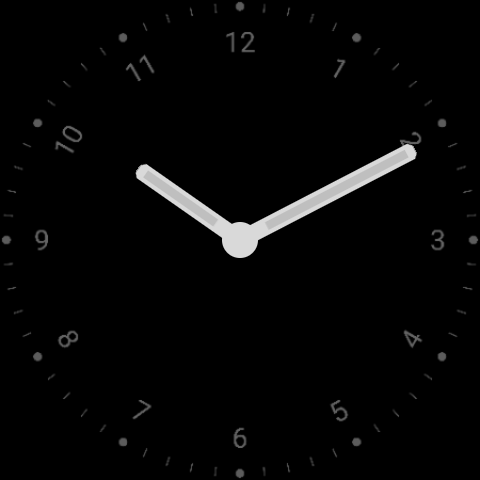
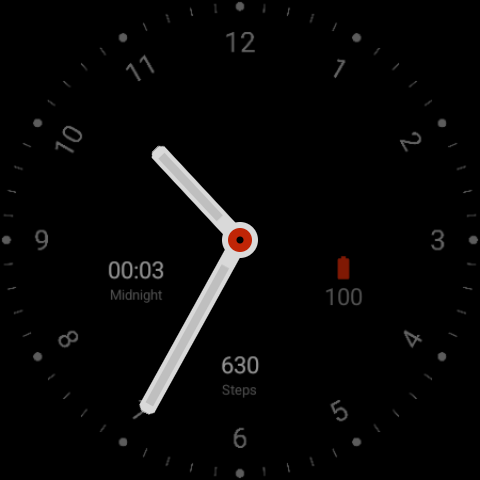
feat: weather default; complications and red cap stay in always-on; left slot centred; README
Owner feedback from the real watch: complications and the red centre dot must stay visible in
always-on mode (complications dimmed to alpha 170, red cap unchanged because dimming blended it
into the white ring), and the left slot block is moved up to line up with the right slot.
Spec amended accordingly. Weather default is Samsung's WeatherComplicationService.

diff --git a/tools/build_face.py b/tools/build_face.py
@@ -22,6 +22,10 @@ RED = "#ffe22b07"
 WHITE = "#ffffffff"
 GREY = "#ff8c8c8c"
 
+# Ambient (always-on) brightness of the complications; the red cap is drawn unchanged
+# (dimming it with alpha blends the red into the white ring and turns it pink).
+AMBIENT_SLOT_ALPHA = 170
+
 
 def n(v: float) -> str:
     """Format a coordinate: at most 2 decimals, no trailing zeros."""
@@ -40,12 +44,17 @@ EMPTY_POLICY = '<DefaultProviderPolicy defaultSystemProvider="EMPTY" defaultSyst
 PRAYER_COMPONENT = ("com.seyedjafari.prayertimes/"
                     "com.seyedjafari.prayertimes.wear.complication.NextPrayerComplicationService")
 
+WEATHER_COMPONENT = ("com.samsung.android.watch.weather/"
+                     "com.samsung.android.watch.weather.complication.WeatherComplicationService")
+
 SLOTS = [
-    Slot(0, "top", 150, 106, 150, 76, WHITE, WHITE, EMPTY_POLICY),
+    Slot(0, "top", 150, 106, 150, 76, WHITE, WHITE,
+         f'<DefaultProviderPolicy primaryProvider="{WEATHER_COMPONENT}" primaryProviderType="SHORT_TEXT" '
+         'defaultSystemProvider="EMPTY" defaultSystemProviderType="EMPTY"/>'),
     Slot(1, "right", 277, 236, 90, 76, RED, GREY,
          '<DefaultProviderPolicy defaultSystemProvider="WATCH_BATTERY" '
          'defaultSystemProviderType="SHORT_TEXT"/>'),
-    Slot(2, "left", 83, 236, 90, 76, WHITE, WHITE,
+    Slot(2, "left", 83, 211, 90, 76, WHITE, WHITE,
          f'<DefaultProviderPolicy primaryProvider="{PRAYER_COMPONENT}" primaryProviderType="SHORT_TEXT" '
          'defaultSystemProvider="EMPTY" defaultSystemProviderType="EMPTY"/>'),
     Slot(3, "bottom", 175, 300, 100, 76, WHITE, WHITE,
@@ -86,7 +95,7 @@ def _slot_xml(slot: Slot) -> str:
     return f"""    <ComplicationSlot slotId="{slot.slot_id}" name="{slot.name}" isCustomizable="TRUE"
         supportedTypes="SHORT_TEXT RANGED_VALUE MONOCHROMATIC_IMAGE SMALL_IMAGE EMPTY"
         x="{n(slot.x)}" y="{n(slot.y)}" width="{n(slot.w)}" height="{n(slot.h)}">
-      <Variant mode="AMBIENT" target="alpha" value="0"/>
+      <Variant mode="AMBIENT" target="alpha" value="{AMBIENT_SLOT_ALPHA}"/>
       {slot.policy}
       <BoundingBox x="0" y="0" width="{n(slot.w)}" height="{n(slot.h)}"/>
       <Complication type="SHORT_TEXT">
@@ -157,7 +166,6 @@ def build(all_empty: bool = False) -> str:
     <PartDraw name="cap_ring" x="0" y="0" width="{SPACE}" height="{SPACE}">
 {ring}    </PartDraw>
     <PartDraw name="cap_core" x="0" y="0" width="{SPACE}" height="{SPACE}">
-      <Variant mode="AMBIENT" target="alpha" value="0"/>
 {core}    </PartDraw>
   </Scene>
 </WatchFace>

diff --git a/tests/test_face.py b/tests/test_face.py
@@ -66,10 +66,16 @@ class SlotTest(unittest.TestCase):
                 apart = ax + aw <= bx or bx + bw <= ax or ay + ah <= by or by + bh <= ay
                 self.assertTrue(apart, f"slots {ida} and {idb} overlap")
 
-    def test_slots_are_hidden_in_ambient_mode(self):
+    def test_slots_stay_visible_but_dimmed_in_ambient_mode(self):
         for s in _slots():
             variants = [(v.get("mode"), v.get("target"), v.get("value")) for v in s.findall("Variant")]
-            self.assertIn(("AMBIENT", "alpha", "0"), variants, f"slot {s.get('slotId')}")
+            self.assertIn(("AMBIENT", "alpha", str(bf.AMBIENT_SLOT_ALPHA)), variants,
+                          f"slot {s.get('slotId')}")
+            self.assertNotIn(("AMBIENT", "alpha", "0"), variants, f"slot {s.get('slotId')} hidden")
+
+    def test_red_cap_is_drawn_unchanged_in_ambient_mode(self):
+        core = next(p for p in _root().iter("PartDraw") if p.get("name") == "cap_core")
+        self.assertEqual(core.findall("Variant"), [], "a variant would dim or hide the red cap")
 
     def test_all_complication_text_shrinks_to_fit_and_ellipsises(self):
         texts = [t for s in _slots() for t in s.iter("Text")]
@@ -77,6 +83,11 @@ class SlotTest(unittest.TestCase):
         for t in texts:
             self.assertEqual(t.get("isAutoSize"), "TRUE")
             self.assertEqual(t.get("ellipsis"), "TRUE")
+
+    def test_top_slot_prefers_weather_and_falls_back_to_empty(self):
+        policy = _slots()[0].find("DefaultProviderPolicy")
+        self.assertEqual(policy.get("primaryProvider"), bf.WEATHER_COMPONENT)
+        self.assertEqual(policy.get("defaultSystemProvider"), "EMPTY")
 
     def test_prayer_slot_prefers_the_prayer_app_and_falls_back_to_empty(self):
         policy = _slots()[2].find("DefaultProviderPolicy")

diff --git a/README.md b/README.md
@@ -1,0 +1,65 @@
+# Analog Plus — Wear OS watch face
+
+A Wear OS watch face that looks like Samsung's stock analog face, with **four** complication slots
+instead of two, and every slot hideable. It is a code-free
+[Watch Face Format](https://developer.android.com/training/wearables/wff) v3 app: XML plus PNG
+images, no Kotlin or Java.
+
+| Original (reference) | This face on the Galaxy Watch |
+|---|---|
+| ![original](docs/reference/original-watchface.png) | ![real watch](docs/screenshots/galaxy-watch-real.png) |
+
+## Complication slots
+
+| Slot | Default | If that provider is missing |
+|---|---|---|
+| Top | Samsung Weather (`com.samsung.android.watch.weather`) | Empty |
+| Right | Watch battery (system provider) | always available |
+| Left | Next prayer from the `com.seyedjafari.prayertimes` Wear app | Empty (blank, no error) |
+| Bottom | Step count (system provider) | always available |
+
+Weather: Samsung's weather complication exists on the watch, so it is the top slot's default. On a
+watch without it, pick weather once in the editor.
+
+**Hide a slot:** long-press the face, tap *Customize*, pick the slot, choose *Empty*. An empty slot
+draws nothing. With all four empty the face is a plain analog dial. Defaults are only starting points:
+any slot can show any provider (short text, ranged value, icon, small image).
+
+**Always-on mode:** the dial and hands dim, the second hand is hidden, and the complications stay
+visible, dimmed. The red centre disc is drawn unchanged.
+
+## Requirements
+
+Wear OS 5.1 (API 35) or later, because auto-sizing complication text needs Watch Face Format v3.
+Package: `com.seyedjafari.analogwatchface`.
+
+## Build and install
+
+```bash
+pip3 install -r requirements.txt     # Pillow, for the image generator only
+./gradlew assembleDebug              # app/build/outputs/apk/debug/app-debug.apk
+scripts/install.sh <adb-serial>      # build, install, activate (emulators)
+```
+
+On a real Samsung watch the activation broadcast is ignored: after installing, long-press the
+current face and pick *Analog Plus*. Pair the watch for installs with Wireless debugging, as described
+in the `prayertime-widgets` README. Note that `adb install -r` keeps the saved complication choices:
+run `adb uninstall com.seyedjafari.analogwatchface` first to see a variant's real defaults.
+
+## Changing the design
+
+All geometry lives in two generators, so images and XML cannot drift apart:
+
+- `tools/gen_assets.py`: dial and hand PNGs (measured from `docs/reference/original-watchface.png`).
+- `tools/build_face.py`: `app/src/main/res/raw/watchface.xml`. Slot boxes are in the face's
+  450 x 450 space; `--all-empty` writes a variant with every default removed.
+
+After editing, run both generators, then `python3 -m unittest discover -s tests` and
+`scripts/validate.sh` (Google's `wff-validator`, downloaded into `tools/bin` on first use).
+
+## Emulator matrix
+
+`scripts/create_avds.sh` creates small round, square and rectangular Wear OS 6 AVDs next to the
+existing `GalaxyWatch7_API36` (large round). `scripts/avd_shot.sh <avd> <even-port>` boots one
+headless, installs the face and saves `docs/screenshots/<avd>.png`. The committed captures also
+include `all-slots-hidden.png` and `ambient.png`.

diff --git a/docs/superpowers/specs/2026-10-02-analog-watchface-design.md b/docs/superpowers/specs/2026-10-02-analog-watchface-design.md
@@ -94,7 +94,7 @@ format's 450-unit space:
 |---|---|---|---|---|
 | Top | 50 / 32 | 150, 106, 150, 76 | Weather (see open items) | Empty |
 | Right | 72 / 61 | 277, 236, 90, 76 | Battery (red icon, grey text) | System battery provider |
-| Left | 28 / 61 | 83, 236, 90, 76 | Next prayer (`com.seyedjafari.prayertimes` `NextPrayerComplicationService`) | Empty |
+| Left | 28 / 55 | 83, 211, 90, 76 | Next prayer (`com.seyedjafari.prayertimes` `NextPrayerComplicationService`) | Empty |
 | Bottom | 50 / 75 | 175, 300, 100, 76 | Step count | System step provider |
 
 - Supported types: short text, ranged value and small image, so the user can pick any provider
@@ -112,8 +112,9 @@ complications. The choice persists per slot.
 
 ### Always-on display
 
-Hands and ticks only, dimmed. Complications are hidden or reduced to monochrome and low
-brightness to save battery and avoid burn-in.
+Dimmed dial and hands. The complications stay visible, dimmed (alpha 170), and the red centre
+disc is drawn unchanged. The second hand is hidden. Changed 2026-10-02 after the owner tried the face on
+the real watch: they want complications and the centre dot to stay in always-on mode.
 
 ### Adaptivity
 
